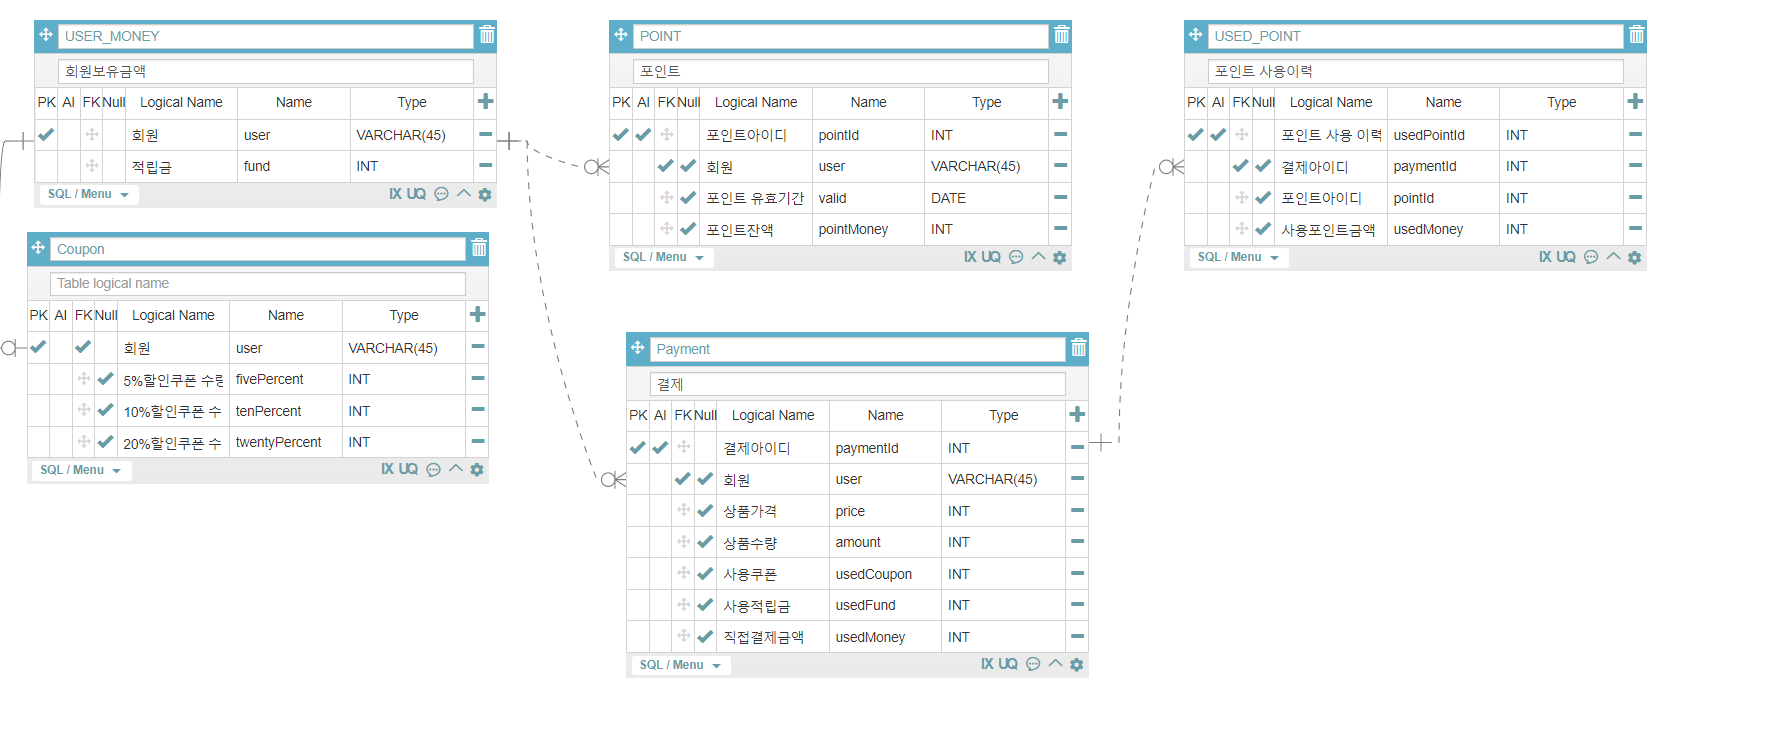
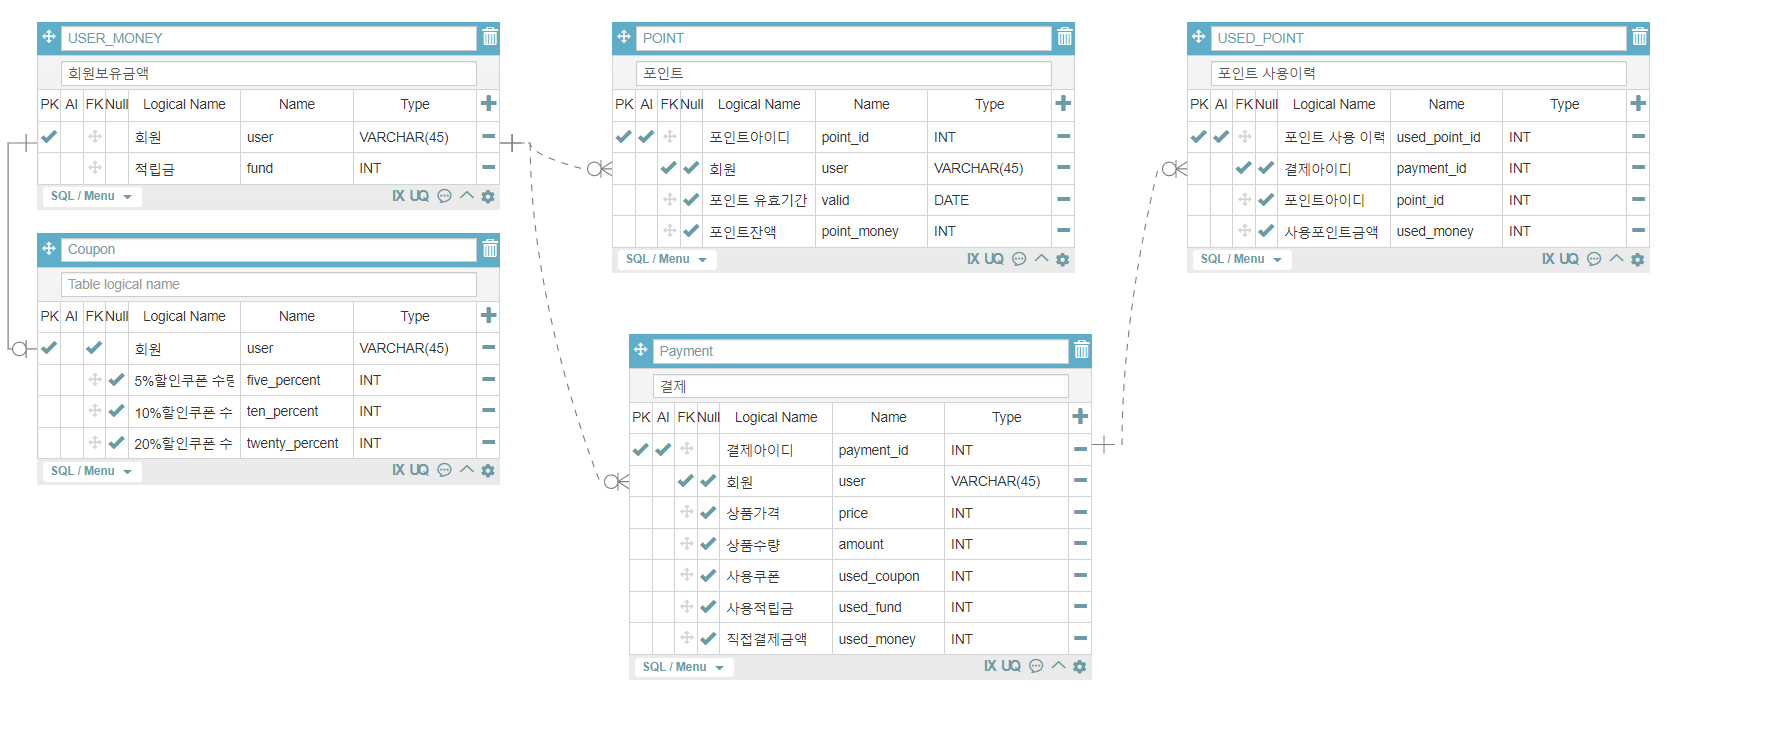
시스템 설계 및 DB와 스프링 연동 테스트

diff --git a/daoushop/src/main/java/com/daou/daoushop/controller/CouponController.java b/daoushop/src/main/java/com/daou/daoushop/controller/CouponController.java
@@ -9,8 +9,8 @@ import org.springframework.web.bind.annotation.RequestMapping;
 import org.springframework.web.bind.annotation.RequestParam;
 import org.springframework.web.bind.annotation.RestController;
 
-import com.daou.daoushop.entity.CouponEntity;
-import com.daou.daoushop.repository.CouponRepository;
+import com.daou.daoushop.domain.coupon.CouponEntity;
+import com.daou.daoushop.domain.coupon.CouponRepository;
 
 @RestController
 @RequestMapping("/coupon")
@@ -19,11 +19,12 @@ public class CouponController {
 	@Autowired
 	CouponRepository couponRepository;
 	
-	@GetMapping(value = "/read")
-	public ResponseEntity read(@RequestParam String user) {
-		ResponseEntity entity = null;
-		CouponEntity coupon = couponRepository.findById(user);
-	}
+//	@GetMapping(value = "/read")
+//	public ResponseEntity read(@RequestParam String user) {
+//		ResponseEntity entity = null;
+//		CouponEntity coupon = new CouponEntity("SD", 0, 0, 0);
+//		coupon.get
+//	}
 	
 //	@PostMapping(value = "/create")
 //	public ResponseEntity<CouponEntity> create(@RequestBody CouponEntity coupon){

diff --git a/daoushop/src/main/java/com/daou/daoushop/domain/coupon/CouponEntity.java b/daoushop/src/main/java/com/daou/daoushop/domain/coupon/CouponEntity.java
@@ -1,0 +1,30 @@
+package com.daou.daoushop.domain.coupon;
+
+import javax.persistence.Entity;
+import javax.persistence.Id;
+
+import lombok.Builder;
+import lombok.Getter;
+import lombok.NoArgsConstructor;
+
+@NoArgsConstructor
+@Getter
+@Entity(name="coupon")
+public class CouponEntity {
+	
+	@Id
+	private String user;
+	private int fivePercent;
+	private int tenPercent;
+	private int twentyPercent;
+	
+	@Builder
+	public CouponEntity(String user, int fivePercent, int tenPercent, int twentyPercent) {
+		this.user = user;
+		this.fivePercent = fivePercent;
+		this.tenPercent = tenPercent;
+		this.twentyPercent = twentyPercent;
+	}
+
+
+}

diff --git a/daoushop/src/main/java/com/daou/daoushop/domain/coupon/CouponRepository.java b/daoushop/src/main/java/com/daou/daoushop/domain/coupon/CouponRepository.java
@@ -1,10 +1,8 @@
-package com.daou.daoushop.repository;
+package com.daou.daoushop.domain.coupon;
 
 import java.util.Optional;
 
 import org.springframework.data.jpa.repository.JpaRepository;
-
-import com.daou.daoushop.entity.CouponEntity;
 
 public interface CouponRepository extends JpaRepository<CouponEntity, String>{
 	

diff --git a/README.md b/README.md
@@ -1,2 +1,30 @@
-다우기술 인턴 코딩과제 쇼핑몰 결제 프로세스 프로젝트입니다.
+
+
+# 					Daou Shopping 
+
+**다우기술 인턴쉽 코딩 과제입니다.**
+
+
+
+### ER-Diagram
+
+![ER-Diagram](./산출물/ER-Diagram.png)
+
+
+
+### 시스템 구조도
+
+
+
+![System Diagram](./산출물/System Diagram.png)
+
+
+
+### 프로토타입
+
+**https://ovenapp.io/view/vSDV8bFSTWwV3bcFf0WOFWoIdKrMb7M9/**
+
+
+
+
 
